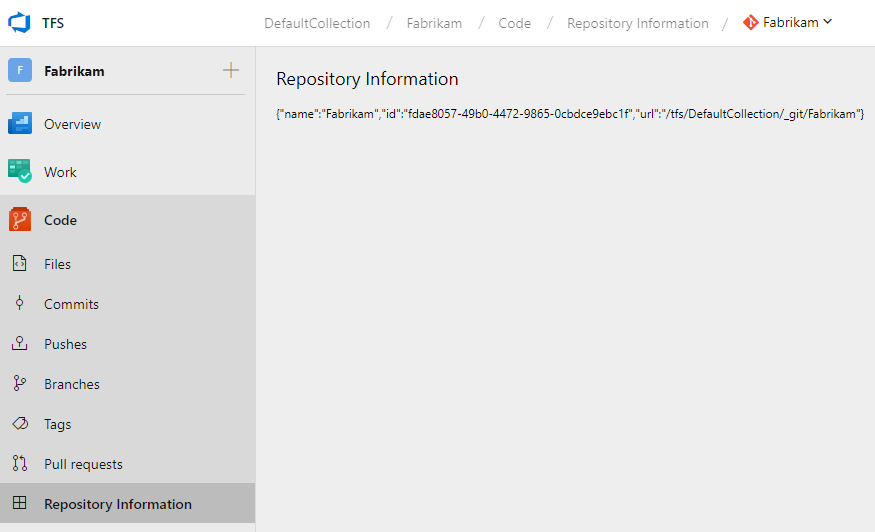
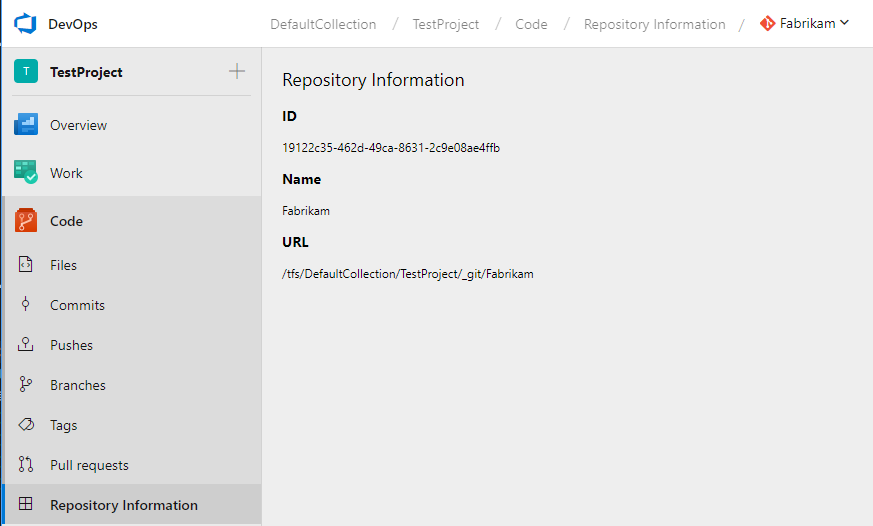
Update HTML layout and screenshot

diff --git a/repository-info-extension/context.html b/repository-info-extension/context.html
@@ -19,11 +19,7 @@
     
     <h2>Repository Information</h2>
     <pre id="context-display"></pre>
-    
-    <div id="configuration" style="display:none">
-        <h2>Configuration</h2>
-        <pre id="configuration-display"></pre>
-    </div>
+
     <script type="text/javascript">
         VSS.init({
             usePlatformScripts: true, 
@@ -31,10 +27,17 @@
         });
 
         VSS.require(["scripts/app"], function (app) {
-            app.execute("repository-info-view");
+            app.execute();
         });
     </script>
 
-    <div id="repository-info-view"></div>
+    <div id="repository-info-view">
+        <h3>ID</h2>
+        <p id="repository-id"></p>
+        <h3>Name</h2>
+        <p id="repository-name"></p>
+        <h3>URL</h2>
+        <p id="repository-url"></p>
+    </div>
 </body>
 </html>

diff --git a/repository-info-extension/scripts/app.ts b/repository-info-extension/scripts/app.ts
@@ -2,9 +2,13 @@
 
 import TFS_VC_Services = require("TFS/VersionControl/Services");
 
-export async function execute(containerId: string) {
+export async function execute() {
     const svc = await TFS_VC_Services.VersionControlRepositoryService.getService();
     const repo = await svc.getCurrentGitRepository();
-    let container = document.getElementById(containerId);
-    container.innerHTML = JSON.stringify(repo);
+    let idContainer = document.getElementById("repository-id");
+    let nameContainer = document.getElementById("repository-name");
+    let urlContainer = document.getElementById("repository-url");
+    idContainer.innerHTML = repo.id;
+    nameContainer.innerHTML = repo.name;
+    urlContainer.innerHTML = repo.url;
 }
